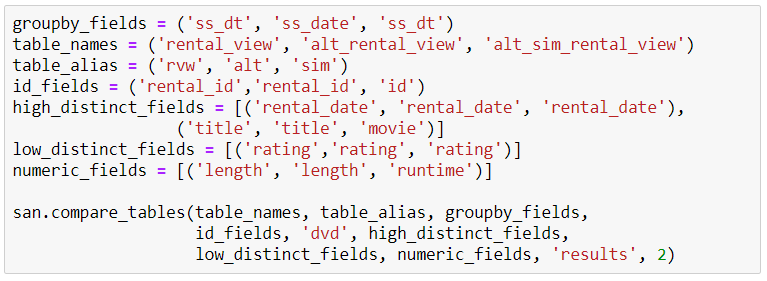
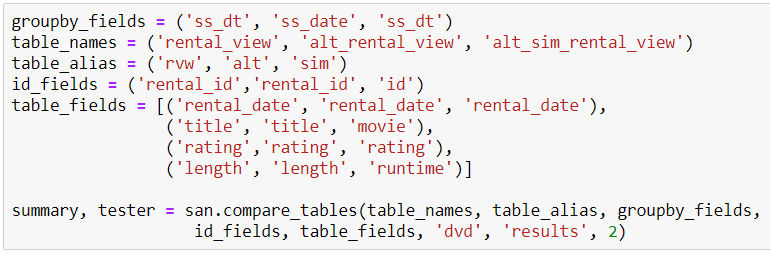
FEAT: Create auto-detection for field test type.
Added detect_field_type, collect_field_type, detect_field_names, and
collect_field_names functions, including input tests.
Adapted compare_tables function to auto-detect test type based on full
list of table fields.
Adjusted README to capture updated functionality.

Changed region(s): [[0.0, 0.0, 1.0, 1.0]]

diff --git a/sql_analysis.py b/sql_analysis.py
@@ -4,7 +4,7 @@
 """
 The :mod:`sql_analysis` module gathers and assesses data from SQL databases.
 """
-
+from collections import namedtuple
 from datetime import datetime
 import os
 from time import time
@@ -19,6 +19,7 @@ import sql_input_tests as sqlit
 
 DB_ENG = sqlc.DB_ENG
 P = TypeVar('P', bound=pd.DataFrame)
+FieldList = namedtuple('FieldList', ['test_type', 'field_names'])
 
 def sql_query(query_str: str, engine: str) -> P:
     """
@@ -48,6 +49,109 @@ def extract_summ_dict(keyword_dict: dict) -> Tuple[str, bool]:
             clear_summary = value
 
     return summary_type, save_type, remove_time, clear_summary
+
+def detect_field_type(table_name: str, field_name: str, engine: str,
+                      low_distinct_thresh: int = 10) -> str:
+    """"
+    Determine the test type to be used on a database table.
+
+    Parameters:
+        table_name: (str) Name of the database table.
+        field_name: (str) Name of the field to test.
+        engine: (str) Server type to use from options of DB_ENG.keys().
+        low_distinct_thresh: (optional, int, default=10) Number of distinct values
+                             at which a field will be classified as low_distinct
+                             test type.
+    Returns:
+        test_type: (str, {'numeric', 'high_distinct', 'low_distinct'})
+    """
+    sqlit.test_in_collection(engine, list(DB_ENG.keys()), 'database engine')
+    query_str = "SELECT {field_name} FROM {table_name}"
+
+    query_str = query_str.format(field_name=field_name,
+                                 table_name=table_name)
+    df = sql_query(query_str, engine)
+
+    if np.issubdtype(df[field_name].dtype, np.number):
+        test_type = 'numeric'
+    elif df[field_name].nunique() > low_distinct_thresh:
+        test_type = 'high_distinct'
+    else:
+        test_type = 'low_distinct'
+
+    return test_type
+
+def collect_field_type(table_name: str, field_names: Sequence[str], engine: str,
+                       low_distinct_thresh: int = 10) -> namedtuple:
+    """
+    Determine test types for fields in a database table.
+
+    Parameters:
+        table_name: (str) Name of the database table.
+        field_names: (list-like) Names of the field to test.
+        engine: (str) Server type to use from options of DB_ENG.keys().
+        low_distinct_thresh: (optional, int, default=10) Number of distinct values
+                             at which a field will be classified as low_distinct
+                             test type.
+    Returns:
+        numeric, high_distinct, low_distinct: (namedtuple) Each named tuple contains
+                 the .test_type and .field_names that have been assigned to it.
+    """
+    numeric = []
+    high_distinct = []
+    low_distinct = []
+
+    for field in field_names:
+        test_type = detect_field_type(table_name, field, engine, low_distinct_thresh)
+        if test_type == 'numeric':
+            numeric.append(field)
+        if test_type == 'high_distinct':
+            high_distinct.append(field)
+        if test_type == 'low_distinct':
+            low_distinct.append(field)
+
+    # Convert to named tuples
+    numeric = FieldList('numeric', numeric)
+    high_distinct = FieldList('high_distinct', high_distinct)
+    low_distinct = FieldList('low_distinct', low_distinct)
+
+    return numeric, high_distinct, low_distinct
+
+def detect_field_names(table_name: str, engine: str) -> Sequence[str]:
+    """
+    Determine field names in a table.
+
+    Parameters:
+        table_name: (str) Name of the database table.
+        engine: (str) Server type to use from options of DB_ENG.keys().
+
+    Returns:
+        (list) Names of table fields.
+    """
+    sqlit.test_in_collection(engine, list(DB_ENG.keys()), 'database engine')
+    query_str = "SELECT * FROM {}".format(table_name)
+    df = sql_query(query_str, engine)
+
+    return df.columns.tolist()
+
+def collect_field_names(table_names: Sequence[str], engine: str) -> Sequence[Sequence[str]]:
+    """
+    Collect and group corresponding field names from database tables.
+
+    Use for 'compare_tables' requires default order of table fields to correspond
+    to each other.
+    """
+    table_collect = []
+
+    for table in table_names:
+        fields = detect_field_names(table, engine)
+        table_collect.append(fields)
+
+    table_fields = []
+    for fields in zip(*table_collect):
+        table_fields.append(fields)
+
+    return table_fields
 
 class SQLUnitTest:
     """
@@ -708,12 +812,13 @@ class SQLUnitTest:
 U = TypeVar('U', bound=SQLUnitTest)
 
 def compare_tables(table_names: Sequence[str], table_alias: Sequence[str],
-                   groupby_fields: Sequence[str], id_fields: Sequence[str],
+                   groupby_fields: Sequence[str],
+                   id_fields: Sequence[str],
+                   table_fields: Sequence[Sequence[str]],
                    db_server: str,
-                   high_distinct_fields: Optional[Sequence[Sequence[str]]] = None,
-                   low_distinct_fields: Optional[Sequence[Sequence[str]]] = None,
-                   numeric_fields: Optional[Sequence[Sequence[str]]] = None,
-                   save_location: Optional[str] = None, review_threshold: Union[int, float] = 2,
+                   save_location: Optional[str] = None,
+                   review_threshold: Union[int, float] = 2,
+                   low_distinct_thresh: int = 10,
                    summ_kwargs: Optional[dict] = None) -> Tuple[P, U]:
     """
     Run data comparison tests between tables.
@@ -731,22 +836,17 @@ def compare_tables(table_names: Sequence[str], table_alias: Sequence[str],
                         Field order should be consistent with that of 'table_names'.
         id_fields: (list-like) Name of the primary id field in each table.
                    Field order should be consistent with that of 'table_names'.
+        table_fields: (list-like) Groupings of field names. Each group has the
+                      corresponding name of the field for each table. Field order
+                      should be consistent with that of 'table_names.'
         db_server: (str) Server alias, as found in DB_ENG.keys().
-        high_distinct_fields: (optional, list-like) Collections of text field names
-                              that have many distinct values. The order of the
-                              collections within the variable should match that
-                              of 'table_names'.
-        high_distinct_fields: (optional, list-like) Collections of text field names
-                              that have few distinct values. The order of the
-                              collections within the variable should match that
-                              of 'table_names'.
-        numeric_fields: (optional, list-like) Collections of numeric field names.
-                        The order of the collections within the variable should
-                        match that of 'table_names'.
         save_location: (optional, str) Folder directory for saving.
         review_threshold: (optional, numeric, default=2) Threshold, as a
                           percentage, above which differences in values will be
                           flagged for priority review.
+        low_distinct_thresh: (optional, int, default=10) Number of distinct values
+                             at which a field will be classified as low_distinct
+                             test type.
         summ_kwargs: (optional, dict) Will be passed into SQLUnitTest.summarize_results.
 
     Returns:
@@ -768,17 +868,18 @@ def compare_tables(table_names: Sequence[str], table_alias: Sequence[str],
 
     tester.run_test(review_threshold=review_threshold)
 
-    for test_fields, test_type in zip((high_distinct_fields, low_distinct_fields, numeric_fields),
-                                      ('high_distinct', 'low_distinct', 'numeric')):
-        if test_fields:
-            tester.test_type = test_type
-            for comparison_fields in test_fields:
-                tester.comparison_fields = comparison_fields
-                try:
-                    tester.run_test(review_threshold=review_threshold)
-                except Exception as e:
-                    print('EXCEPTION:', e)
-                    tester._exceptions[comparison_fields[0]] = e
+    test_fields = [fields[0] for fields in table_fields]
+    numeric_fields, high_distinct_fields, low_distinct_fields = \
+    collect_field_type(table_names[0], test_fields, db_server, low_distinct_thresh)
+    for test_groups in (high_distinct_fields, low_distinct_fields, numeric_fields):
+        tester.test_type = test_groups.test_type
+        for field in test_groups.field_names:
+            try:
+                tester.comparison_fields = table_fields[test_fields.index(field)]
+                tester.run_test(review_threshold=review_threshold)
+            except Exception as e:
+                print('EXCEPTION:', e)
+                tester._exceptions[field] = e
 
     summary = tester.summarize_results(keyword_dict=summ_kwargs)
 

diff --git a/README.md b/README.md
@@ -14,7 +14,8 @@ Use examples include comparing data in a view to those in a table derived from a
     5. Saves results and summary as specified.
 
 - **Function: compare_tables**
-    1. Utilizes methods of SQLUnitTest to complete a full comparison of table values.
+    1. Auto-detects the type of test to be run.
+    2. Utilizes methods of SQLUnitTest to complete a full comparison of table values.
 
 - **Function: sql_query**
     1. Conducts basic database queries
